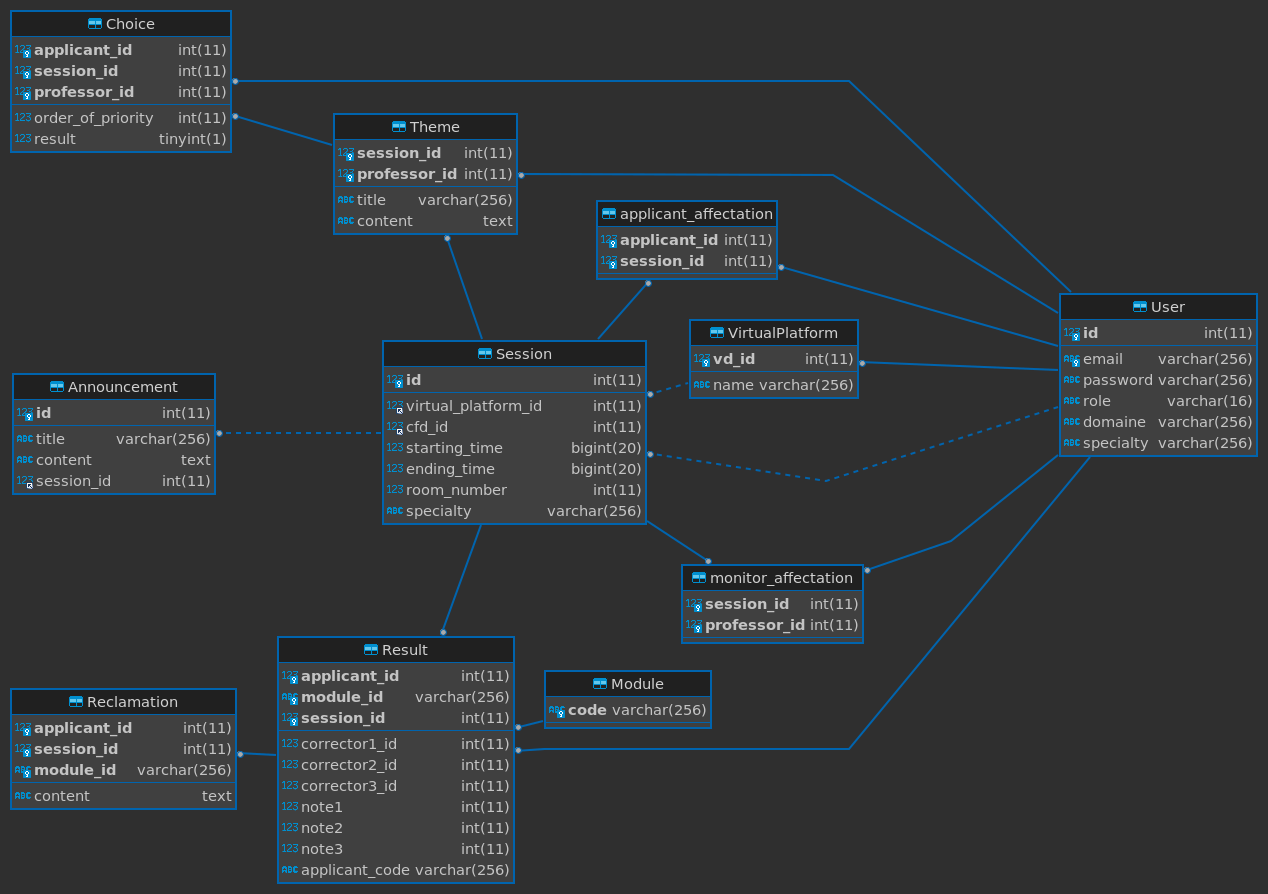
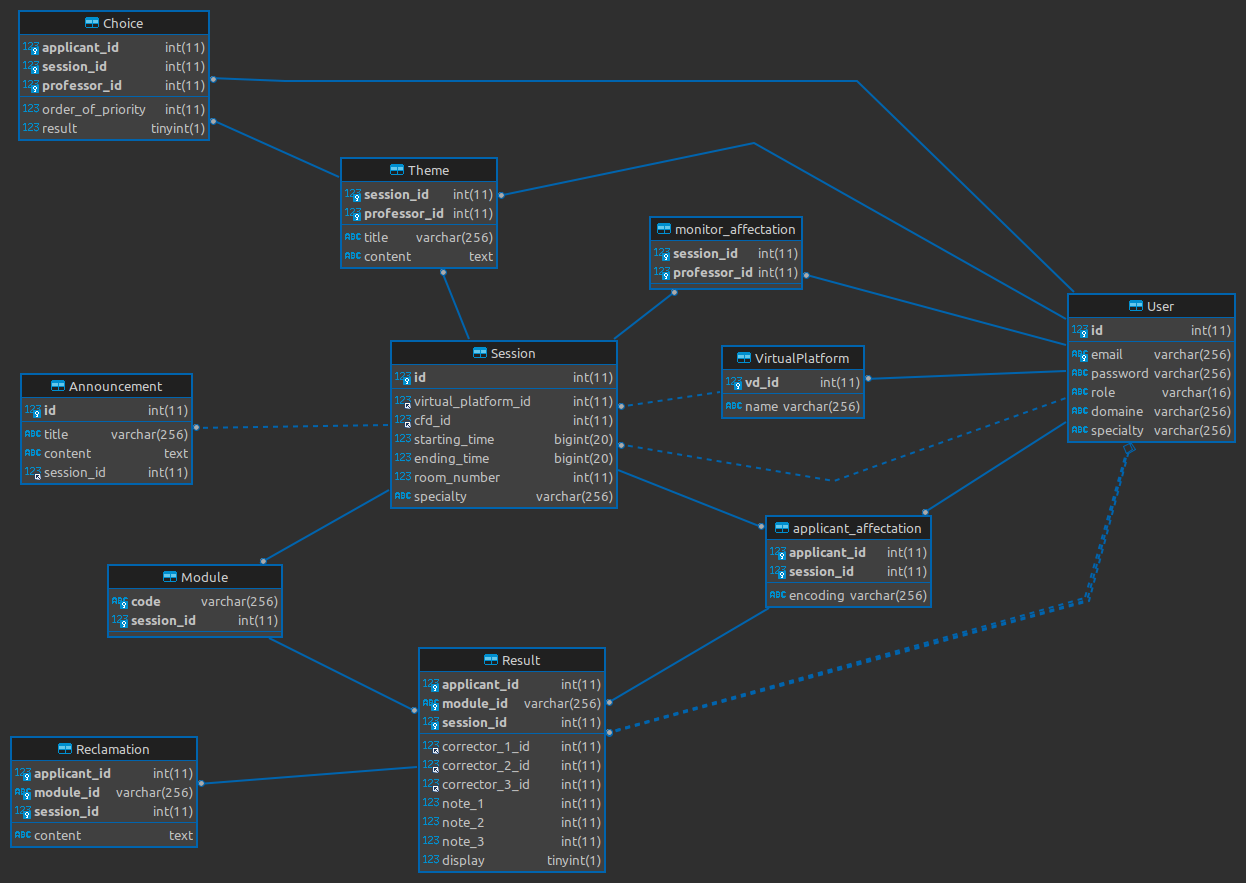
added function signatures for vp management

diff --git a/src/apis/virtual_platform.rs b/src/apis/virtual_platform.rs
@@ -1,0 +1,124 @@
+use actix_web::{delete, get, post, put, web, HttpRequest, HttpResponse};
+use serde::{Deserialize, Serialize};
+
+use crate::{
+    model::{module, session},
+    ServerState,
+};
+
+mod db {}
+
+// Session management
+#[post("/")]
+pub async fn create_session(
+    session: web::Json<session::Session>,
+    data: web::Data<ServerState>,
+    request: HttpRequest,
+) -> HttpResponse {
+    todo!()
+}
+
+#[get("/{id}")]
+pub async fn get_session(
+    id: web::Path<(i32,)>,
+    data: web::Data<ServerState>,
+    request: HttpRequest,
+) -> HttpResponse {
+    todo!()
+}
+
+#[get("/")]
+pub async fn get_sessions(data: web::Data<ServerState>, request: HttpRequest) -> HttpResponse {
+    todo!()
+}
+
+#[derive(Debug, Serialize, Deserialize)]
+struct UpdateSessionInput {
+    cfd_id: i32,
+    starting_time: u64,
+    ending_time: u64,
+    room_number: u64,
+}
+
+#[put("/")]
+pub async fn update_session(
+    session: web::Json<UpdateSessionInput>,
+    data: web::Data<ServerState>,
+    request: HttpRequest,
+) -> HttpResponse {
+    todo!()
+}
+
+#[delete("/{id}")]
+pub async fn delete_session(
+    id: web::Path<(i32,)>,
+    data: web::Data<ServerState>,
+    request: HttpRequest,
+) -> HttpResponse {
+    todo!()
+}
+
+// Module management
+
+#[post("/module")]
+pub async fn create_module(
+    module: web::Json<module::Module>,
+    data: web::Data<ServerState>,
+    request: HttpRequest,
+) -> HttpResponse {
+    todo!()
+}
+
+#[delete("/module")]
+pub async fn delete_module(
+    module: web::Json<module::Module>,
+    data: web::Data<ServerState>,
+    request: HttpRequest,
+) -> HttpResponse {
+    todo!()
+}
+
+// Applicant management
+#[derive(Debug, Serialize, Deserialize)]
+struct ApplicantAffectation {
+    session_id: i32,
+    applicant_id: i32,
+    encoding: String,
+}
+
+#[post("/applicant")]
+pub async fn affect_applicant(
+    af: web::Json<ApplicantAffectation>,
+    data: web::Data<ServerState>,
+    request: HttpRequest,
+) -> HttpResponse {
+    todo!()
+}
+
+#[delete("/applicant")]
+pub async fn delete_applicant(
+    af: web::Json<ApplicantAffectation>,
+    data: web::Data<ServerState>,
+    request: HttpRequest,
+) -> HttpResponse {
+    todo!()
+}
+
+// Announcement Management
+#[post("/announcement")]
+pub async fn create_announcement(
+    announcement: web::Json<session::Announcement>,
+    data: web::Data<ServerState>,
+    request: HttpRequest,
+) -> HttpResponse {
+    todo!()
+}
+
+#[delete("/announcement/{id}")]
+pub async fn delete_announcement(
+    id: web::Path<(i32,)>,
+    data: web::Data<ServerState>,
+    request: HttpRequest,
+) -> HttpResponse {
+    todo!()
+}

diff --git a/src/apis/mod.rs b/src/apis/mod.rs
@@ -3,9 +3,15 @@
 /// And should contain virtual platform management
 pub mod admin;
 
+/// this module contains Account apis
+/// which allow the user to modify his email and password
 pub mod account;
+
 /// this module contains Authentication related functions which are
 /// Http Post Login
 /// Http Get  Refresh
 /// Security wrapping function
 pub mod authentication;
+
+/// this module contains apis that allow the ViceDoyen to manage the  virtual platform
+pub mod virtual_platform;

diff --git a/src/model/session.rs b/src/model/session.rs
@@ -1,0 +1,20 @@
+use serde::{Deserialize, Serialize};
+
+#[derive(Debug, Serialize, Deserialize)]
+pub struct Session {
+    id: Option<i32>,
+    virtual_platform_id: i32,
+    cfd_id: i32,
+    starting_time: u64,
+    ending_time: u64,
+    room_number: u32,
+    specialty: String,
+}
+
+#[derive(Debug, Serialize, Deserialize)]
+pub struct Announcement {
+    id: Option<i32>,
+    title: String,
+    content: String,
+    session_id: i32,
+}

diff --git a/src/apis/admin.rs b/src/apis/admin.rs
@@ -54,7 +54,7 @@ mod db {
             user::User,
             r#"
             select 
-              id as 'id?', 
+              id as 'id?',
               email, password as 'password?', 
               role as 'role?: user::Role',
               domaine as 'domaine?',

diff --git a/src/model/module.rs b/src/model/module.rs
@@ -1,0 +1,7 @@
+use serde::{Deserialize, Serialize};
+
+#[derive(Debug, Serialize, Deserialize)]
+pub struct Module {
+    session_id: Option<i32>,
+    code: String,
+}

diff --git a/src/model/mod.rs b/src/model/mod.rs
@@ -1,3 +1,5 @@
+pub mod module;
+pub mod session;
 /// contains user data related stuff
 pub mod user;
 pub mod virtual_platform;

diff --git a/Devlog/Devlog.md b/Devlog/Devlog.md
@@ -107,13 +107,17 @@ we use it like so:
 Note that the api receives a json array object as the csv parsing needs to be done on the client side this allows it to be more versitile on the data types it receives not just csv.
 
 ```
-started 26/03/2023 00:22
+finished 26/03/2023 00:22
 ```
 
 ***And with that administrator apis should be done now a peer review is the next step***
 
 
 # Entry 6 Adding Virtual Platform management from the Vice doyen
+
+```
+started 28/03/2023 16:48
+```
 
 the vice doyen needs to:
 
